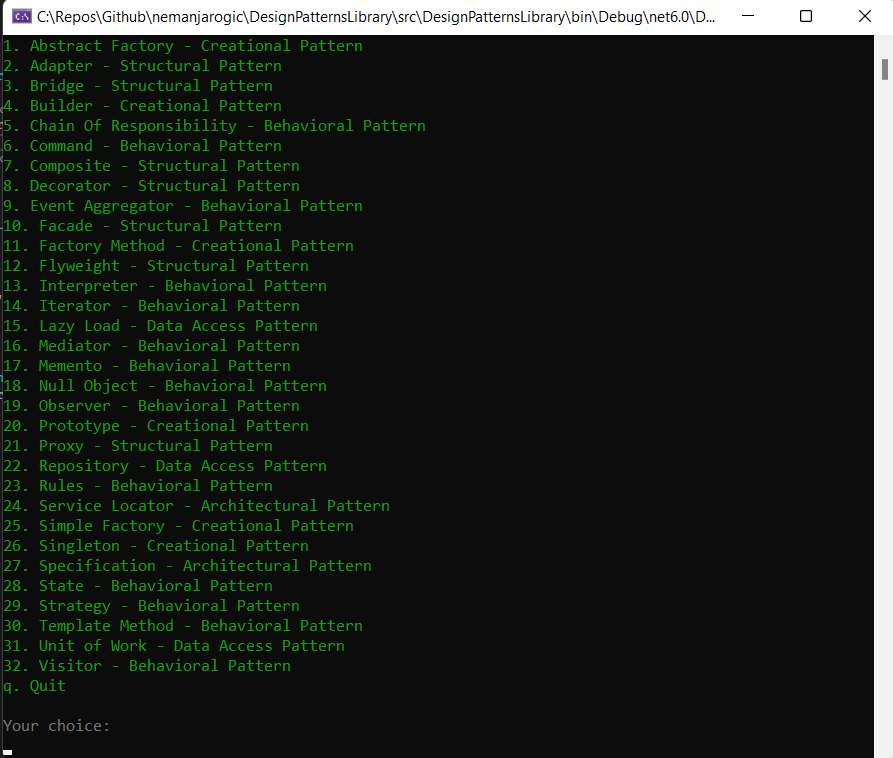
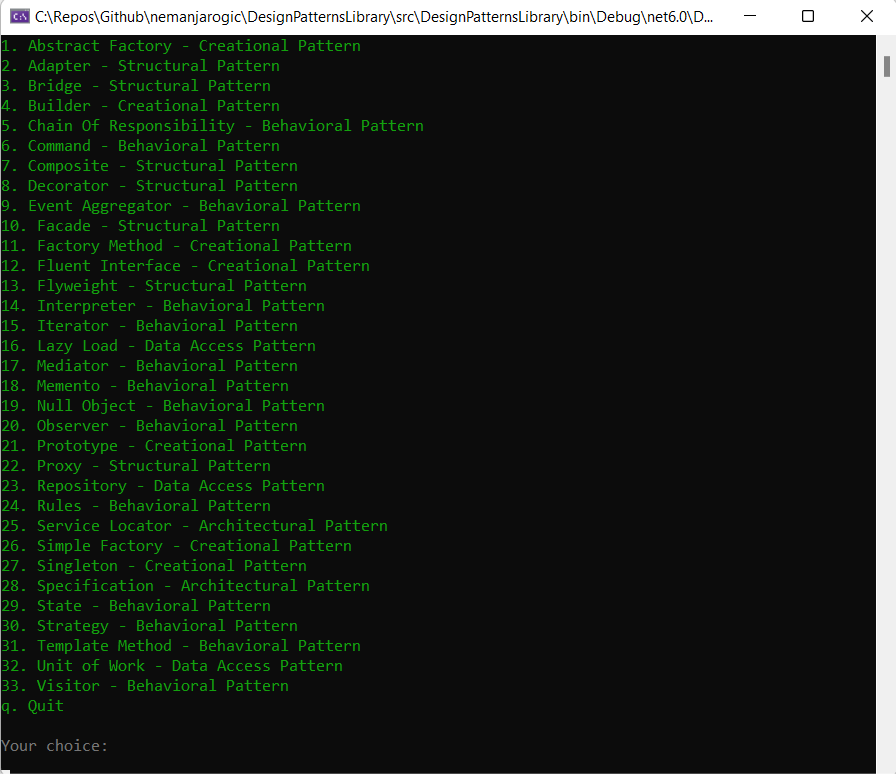
Add fluent interface design pattern

Changed region(s): [[0.0, 0.0, 0.7861, 1.0], [0.9675, 0.0607, 0.9978, 0.1214], [0.8768, 0.0, 0.9071, 0.0303]]

diff --git a/src/AdditionalPatterns/FluentInterface/FluentInterfaceLibrary/BlobStorageExample/BlobStorageManager.cs b/src/AdditionalPatterns/FluentInterface/FluentInterfaceLibrary/BlobStorageExample/BlobStorageManager.cs
@@ -1,0 +1,77 @@
+using FluentInterfaceLibrary.BlobStorageExample.Contracts;
+
+namespace FluentInterfaceLibrary.BlobStorageExample;
+
+public sealed class BlobStorageManager : IBlobStorageSelector, IBlobStorageAction, IRead, IWrite
+{
+    private readonly string _connectionString;
+    private string _containerName;
+    private string _blobName;
+
+    private BlobStorageManager(string connectionString)
+    {
+        _connectionString = connectionString;
+        _containerName = string.Empty;
+        _blobName = string.Empty;
+    }
+
+    #region Blob storage connection
+
+    public static IBlobStorageSelector Connect(string connectionString)
+    {
+        Console.WriteLine($"Connecting to the storage account using the connection string: {connectionString}");
+        var connection = new BlobStorageManager(connectionString);
+        Console.WriteLine("Connection with the storage account is successfully established.");
+
+        return connection;
+    }
+
+    public IBlobStorageAction OnBlob(string containerName, string blobName)
+    {
+        _containerName = containerName;
+        _blobName = blobName;
+
+        Console.WriteLine($"The blob storage /{containerName}/{blobName} is ready for incoming requests.");
+        return this;
+    }
+
+    #endregion Blob storage connection
+
+    #region Download
+
+    public IWrite Download(string fileName)
+    {
+        Console.WriteLine($"The file {fileName} will be download from the /{_containerName}/{_blobName}");
+        return this;
+    }
+
+    public void ToFolder(string folderPath) =>
+        Console.WriteLine($"The file is downloaded from the /{_containerName}/{_blobName} to the directory {folderPath}.");
+
+    #endregion Download
+
+    #region Upload
+
+    public IRead Upload(string fileName)
+    {
+        Console.WriteLine($"The file {fileName} will be uploaded to the /{_containerName}/{_blobName}");
+        return this;
+    }
+
+    public void FromFile(string filePath) =>
+        Console.WriteLine($"The file is uploaded from the user's machine to the /{_containerName}/{_blobName}.");
+
+    public void FromStream(Stream stream) =>
+        Console.WriteLine($"The file is uploaded from the stream to the /{_containerName}/{_blobName}.");
+
+    #endregion Upload
+
+    #region Preview
+
+    public void Preview(string fileName)
+    {
+        Console.WriteLine($"Previewing the file {fileName} from the /{_containerName}/{_blobName}...");
+    }
+
+    #endregion Preview
+}

diff --git a/src/AdditionalPatterns/FluentInterface/FluentInterfaceLibrary/LinqExample/LinqExecutor.cs b/src/AdditionalPatterns/FluentInterface/FluentInterfaceLibrary/LinqExample/LinqExecutor.cs
@@ -1,0 +1,65 @@
+using BuildingBlocks;
+
+namespace FluentInterfaceLibrary.LinqExample;
+
+public static class LinqExecutor
+{
+    public static void Execute()
+    {
+        ConsoleExtension.WriteSeparator("LINQ example");
+
+        var englishToSerbianDictionary = new Dictionary<string, string>
+        {
+            {"adventure", "avantura"},
+            {"bird", "ptica"},
+            {"fish", "riba"},
+            {"football", "fudbal"},
+            {"programming", "programiranje"},
+        };
+
+        DisplayDictionary(englishToSerbianDictionary);
+
+        Console.WriteLine("\nFinding translations for English words containing the letter 'a', sorted by length and displayed in uppercase...");
+        FindTranslationsProgressively(englishToSerbianDictionary);
+        FindTranslationsUsingFluentInterface(englishToSerbianDictionary);
+    }
+
+    private static void DisplayDictionary(Dictionary<string, string> englishToSerbianDictionary)
+    {
+        Console.WriteLine("\nContent of the dictionary: ");
+        foreach (var (englishWord, serbianWord) in englishToSerbianDictionary)
+        {
+            Console.WriteLine($"{englishWord} - {serbianWord}");
+        }
+    }
+
+    private static void FindTranslationsProgressively(Dictionary<string, string> englishToSerbianDictionary)
+    {
+        var filtered = englishToSerbianDictionary.Where(t => t.Key.Contains("a"));
+        var sorted = filtered.OrderBy(t => t.Value.Length);
+        var finalTranslations = sorted.Select(t => t.Value.ToUpper());
+
+        Console.WriteLine("\nProgressive translations: ");
+        DisplayWords(finalTranslations);
+    }
+
+    private static void FindTranslationsUsingFluentInterface(Dictionary<string, string> englishToSerbianDictionary)
+    {
+        // C# uses fluent programming extensively in LINQ to build queries using "standard query operators".
+        var finalTranslations = englishToSerbianDictionary
+            .Where(t => t.Key.Contains("a"))
+            .OrderBy(t => t.Value.Length)
+            .Select(t => t.Value.ToUpper());
+
+        Console.WriteLine("\nFluent interface translations: ");
+        DisplayWords(finalTranslations);
+    }
+
+    private static void DisplayWords(IEnumerable<string> words)
+    {
+        foreach (var word in words)
+        {
+            Console.WriteLine(word);
+        }
+    }
+}

diff --git a/src/AdditionalPatterns/FluentInterface/FluentInterfaceLibrary/BlobStorageExample/BlobStorageExecutor.cs b/src/AdditionalPatterns/FluentInterface/FluentInterfaceLibrary/BlobStorageExample/BlobStorageExecutor.cs
@@ -1,0 +1,17 @@
+using BuildingBlocks;
+
+namespace FluentInterfaceLibrary.BlobStorageExample;
+
+public static class BlobStorageExecutor
+{
+    public static void Execute()
+    {
+        ConsoleExtension.WriteSeparator("Blob Storage example");
+
+        BlobStorageManager
+            .Connect("DefaultEndpointsProtocol=https;AccountName=myAccountName;AccountKey=<account-key>")
+            .OnBlob("container", "blob")
+            .Download("blobStorageManual.pdf")
+            .ToFolder(@"D:\DesignPatternsLibrary\Downloads");
+    }
+}

diff --git a/src/AdditionalPatterns/FluentInterface/FluentInterfaceLibrary/Executor.cs b/src/AdditionalPatterns/FluentInterface/FluentInterfaceLibrary/Executor.cs
@@ -1,0 +1,16 @@
+using BuildingBlocks;
+using FluentInterfaceLibrary.BlobStorageExample;
+using FluentInterfaceLibrary.LinqExample;
+
+namespace FluentInterfaceLibrary;
+
+public class Executor : PatternExecutor
+{
+    public override string Name => "Fluent Interface - Creational Pattern";
+
+    public override void Execute()
+    {
+        BlobStorageExecutor.Execute();
+        LinqExecutor.Execute();
+    }
+}

diff --git a/src/DesignPatternsLibrary/PatternExecutorsRegistry.cs b/src/DesignPatternsLibrary/PatternExecutorsRegistry.cs
@@ -23,6 +23,7 @@ public class PatternExecutorsRegistry
             new CompositeLibrary.Executor(),
             new DecoratorLibrary.Executor(),
             new FacadeLibrary.Executor(),
+            new FluentInterfaceLibrary.Executor(),
             new FlyweightLibrary.Executor(),
             new ProxyLibrary.Executor(),
             new ChainOfResponsibilityLibrary.Executor(),

diff --git a/src/AdditionalPatterns/FluentInterface/FluentInterfaceLibrary/BlobStorageExample/Contracts/IBlobStorageAction.cs b/src/AdditionalPatterns/FluentInterface/FluentInterfaceLibrary/BlobStorageExample/Contracts/IBlobStorageAction.cs
@@ -1,0 +1,9 @@
+namespace FluentInterfaceLibrary.BlobStorageExample.Contracts;
+
+// Interfaces IWrite and IRead are used as a prevention mechanism for invalid method combinations.
+public interface IBlobStorageAction
+{
+    IWrite Download(string fileName);
+    IRead Upload(string fileName);
+    void Preview(string fileName);
+}

diff --git a/src/AdditionalPatterns/FluentInterface/FluentInterfaceLibrary/BlobStorageExample/Contracts/IBlobStorageSelector.cs b/src/AdditionalPatterns/FluentInterface/FluentInterfaceLibrary/BlobStorageExample/Contracts/IBlobStorageSelector.cs
@@ -1,0 +1,6 @@
+namespace FluentInterfaceLibrary.BlobStorageExample.Contracts;
+
+public interface IBlobStorageSelector
+{
+    IBlobStorageAction OnBlob(string containerName, string blobName);
+}

diff --git a/src/AdditionalPatterns/FluentInterface/FluentInterfaceLibrary/BlobStorageExample/Contracts/IRead.cs b/src/AdditionalPatterns/FluentInterface/FluentInterfaceLibrary/BlobStorageExample/Contracts/IRead.cs
@@ -1,0 +1,7 @@
+namespace FluentInterfaceLibrary.BlobStorageExample.Contracts;
+
+public interface IRead
+{
+    void FromFile(string filePath);
+    void FromStream(Stream stream);
+}

diff --git a/src/AdditionalPatterns/FluentInterface/FluentInterfaceLibrary/BlobStorageExample/Contracts/IWrite.cs b/src/AdditionalPatterns/FluentInterface/FluentInterfaceLibrary/BlobStorageExample/Contracts/IWrite.cs
@@ -1,0 +1,6 @@
+namespace FluentInterfaceLibrary.BlobStorageExample.Contracts;
+
+public interface IWrite
+{
+    void ToFolder(string folderPath);
+}

diff --git a/README.md b/README.md
@@ -1,6 +1,6 @@
 <h1 align="center">Design Patterns Library</h1>
 <p align="center">
- 32 Design Patterns • 65 moderately realistic examples
+ 33 Design Patterns • 73 moderately realistic examples
 </p>
 
 ## What are Design Patterns?
@@ -57,6 +57,7 @@ This repository contains a comprehensive design patterns library implemented in 
 | Design Pattern        | Type           | Description  |
 | ------------- |:-------------:| -----|
 | [Event Aggregator](https://github.com/nemanjarogic/DesignPatternsLibrary/tree/main/src/AdditionalPatterns/EventAggregator/StoreManagement) | Behavioral | Channel events from multiple objects into a single object to simplify registration for clients.|
+| [Fluent Interface](https://github.com/nemanjarogic/DesignPatternsLibrary/tree/main/src/AdditionalPatterns/FluentInterface/FluentInterfaceLibrary) | Creational | Provides an easy-readable, flowing interface, that often mimics a domain specific language. Using this pattern results in code that can be read nearly as human language.|
 | [Interpreter](https://github.com/nemanjarogic/DesignPatternsLibrary/tree/main/src/AdditionalPatterns/Interpreter/InterpreterLibrary) | Behavioral | Defines a grammatical representation for a language and provides an interpreter to evaluate sentences in a language.|
 | [Lazy Load](https://github.com/nemanjarogic/DesignPatternsLibrary/tree/main/src/AdditionalPatterns/LazyLoad/LazyLoadLibrary) | Data Access | Defers initialization of an object until the point at which it is needed. It can contribute to efficiency in the program's operation if properly and appropriately used.|
 | [Null Object](https://github.com/nemanjarogic/DesignPatternsLibrary/tree/main/src/AdditionalPatterns/NullObject/NullObjectLibrary) | Behavioral | Encapsulates the absence of an object by providing a substitutable alternative that offers suitable default do nothing behavior.|
